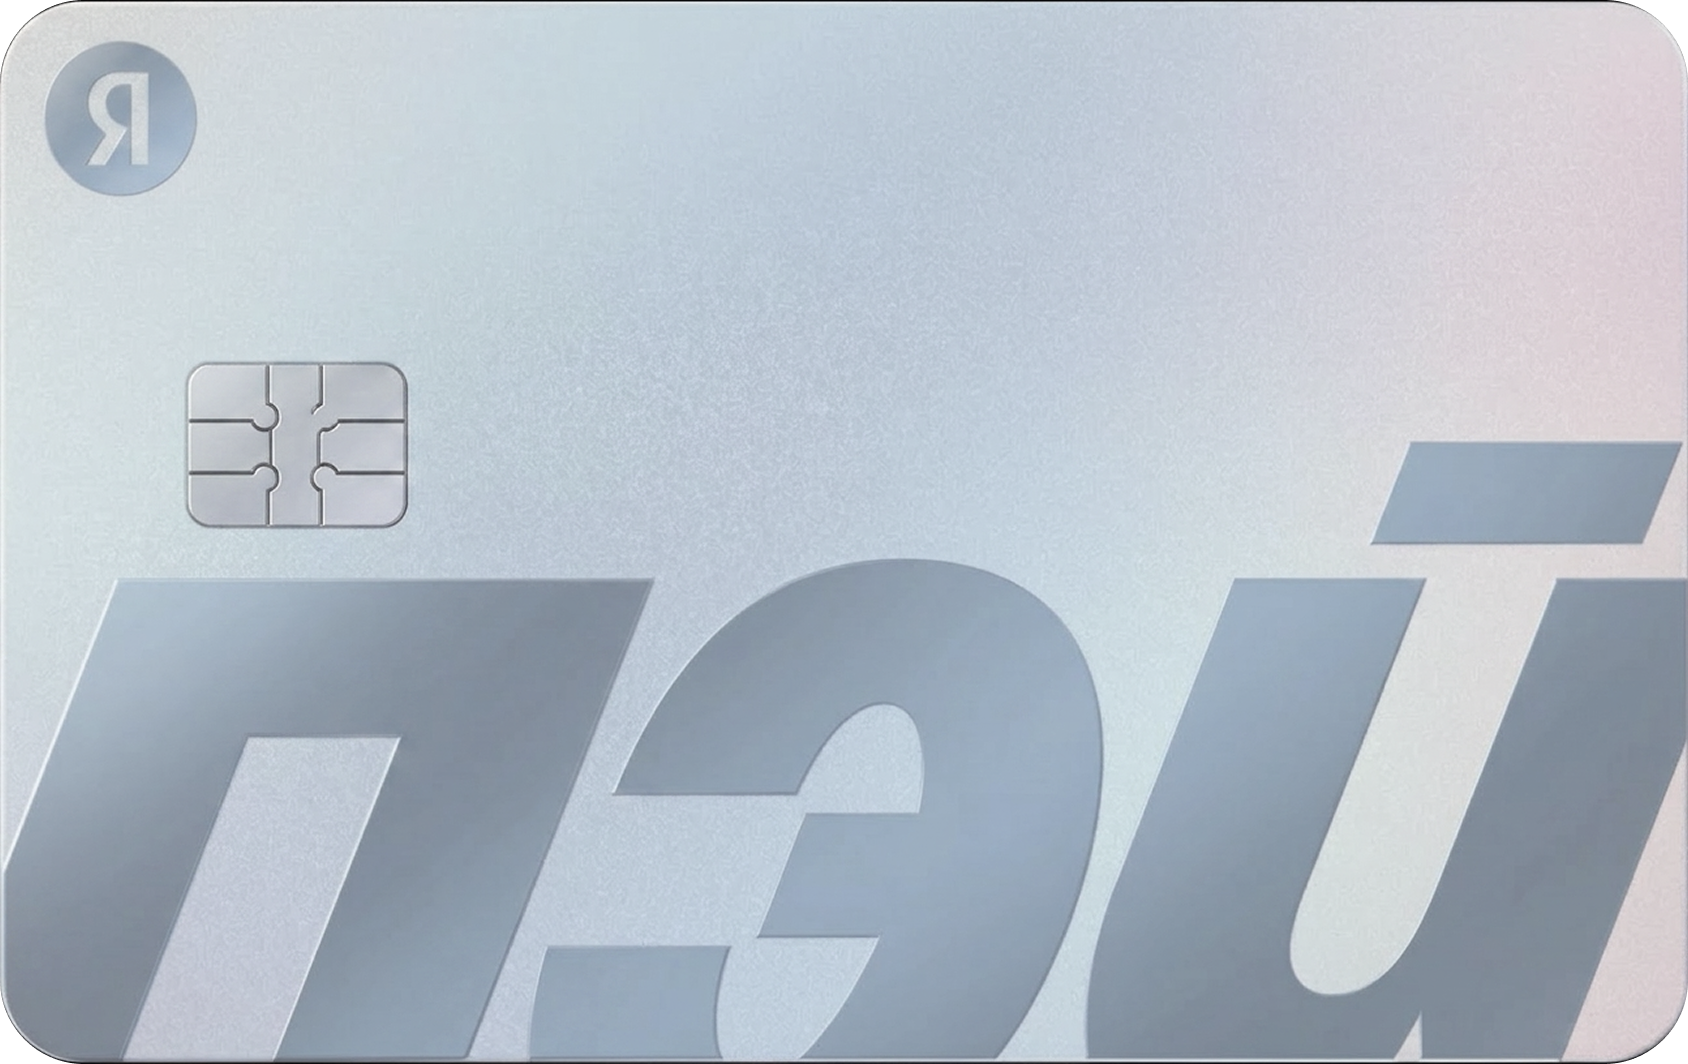
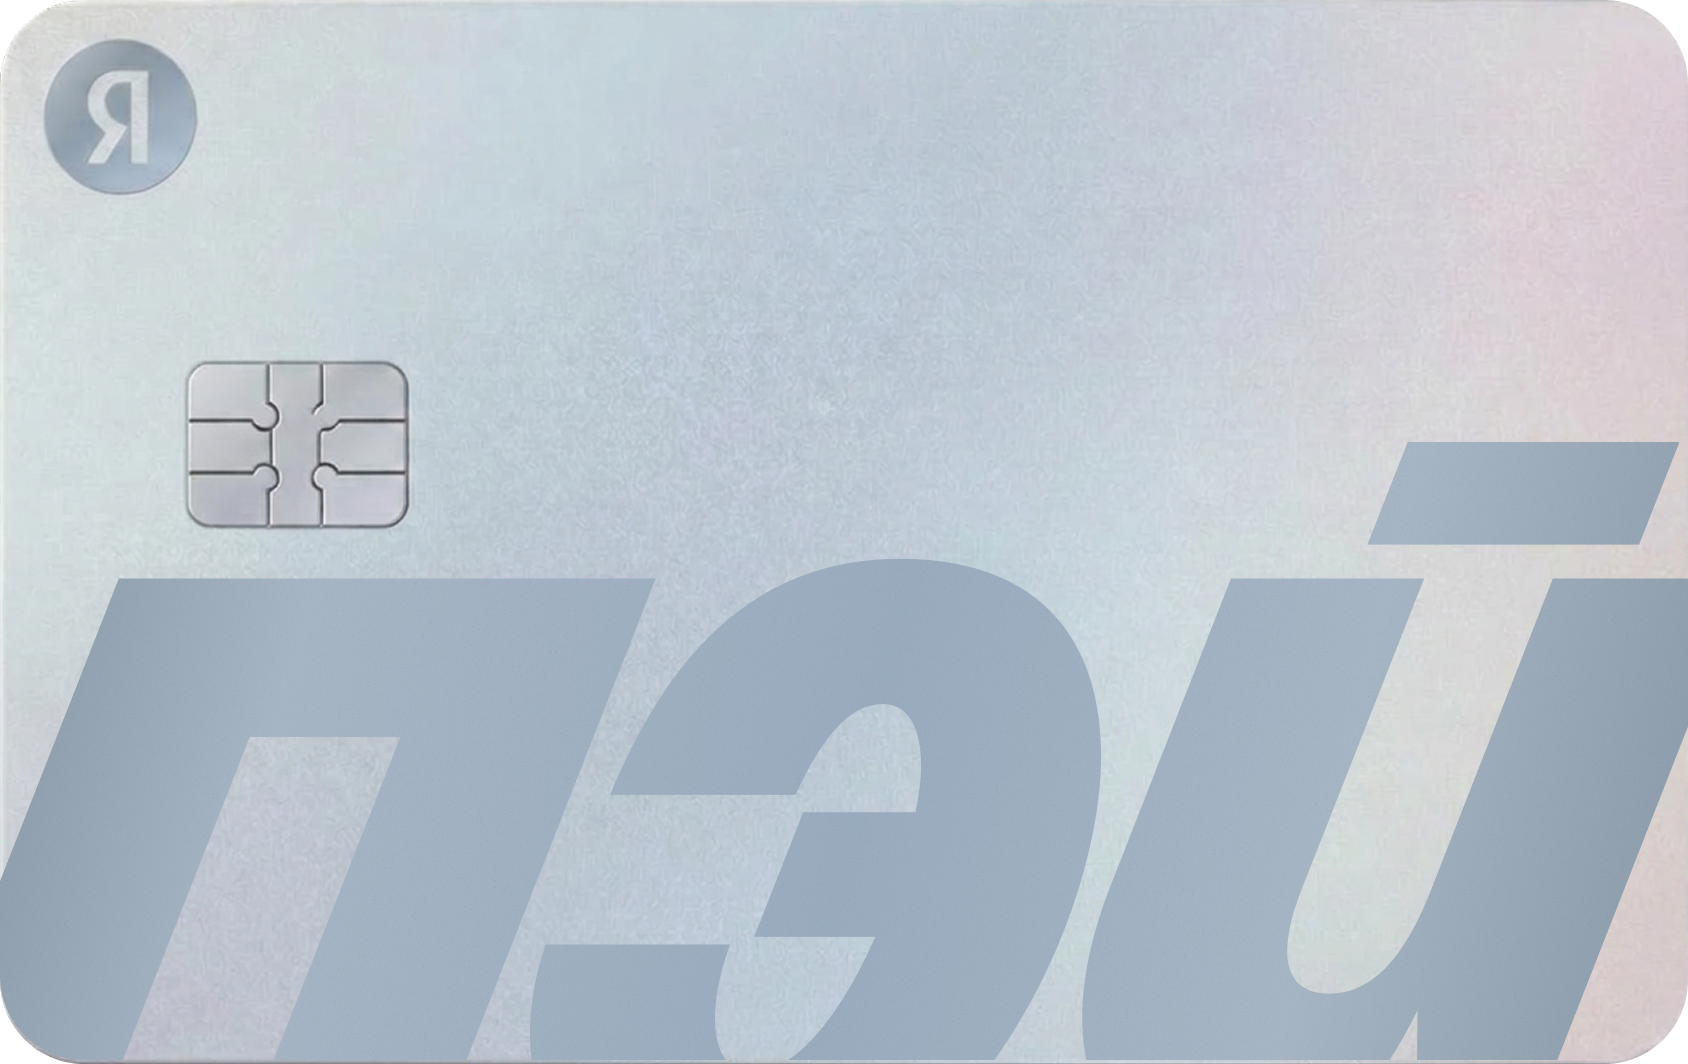
Add files via upload

diff --git a/index.html b/index.html
@@ -492,12 +492,13 @@
         // ============================================
 
         // Card skins configuration
+        // cornerRadius — скругление лицевой/задней плоскости и рёбер (подложки между ними)
         const skins = [
-            { front: 'images/card_front.png', back: 'images/card_back.png', edge: [0.95, 0.45, 0.65] },
-            { front: 'images/card_front_2.png', back: 'images/card_back_2.png', edge: [0.5, 0.8, 0.75] },
-            { front: 'images/Pay front.png', back: 'images/Pay back silver.png', mask: 'images/Pay mask.png', edge: [0.85, 0.85, 0.85], holographic: true },
-            { front: 'images/Pay front red.png', back: 'images/Pay back red.png', mask: 'images/Pay mask.png', edge: [0.85, 0.85, 0.85], holographic: true },
-            { front: 'images/Pay front black.png', back: 'images/Pay back black.png', mask: 'images/Pay mask.png', edge: [0.15, 0.15, 0.17], holographic: true }
+            { front: 'images/card_front.png', back: 'images/card_back.png', edge: [0.95, 0.45, 0.65], cornerRadius: 0.10 },
+            { front: 'images/card_front_2.png', back: 'images/card_back_2.png', edge: [0.5, 0.8, 0.75], cornerRadius: 0.10 },
+            { front: 'images/Pay front.png', back: 'images/Pay back silver.png', mask: 'images/Pay mask.png', edge: [0.85, 0.85, 0.85], holographic: true, cornerRadius: 0.16 },
+            { front: 'images/Pay front red.png', back: 'images/Pay back red.png', mask: 'images/Pay mask.png', edge: [0.85, 0.85, 0.85], holographic: true, cornerRadius: 0.16 },
+            { front: 'images/Pay front black.png', back: 'images/Pay back black.png', mask: 'images/Pay mask.png', edge: [0.15, 0.15, 0.17], holographic: true, cornerRadius: 0.16 }
         ];
 
         let currentSkin = 0;
@@ -984,7 +985,7 @@
             mat4.identity(viewMatrix);
             mat4.translate(viewMatrix, viewMatrix, [0, 0, -4.2]);
             
-            createCard();
+            updateCardGeometry(currentSkin);
 
             // Load textures
             const skin = skins[currentSkin];
@@ -996,8 +997,9 @@
             animate();
         }
 
-        function createCard() {
-            const cardWidth = 3.2, cardHeight = 2.02, cardDepth = 0.04, cornerRadius = 0.10;
+        function updateCardGeometry(skinIndex) {
+            const cornerRadius = skins[skinIndex].cornerRadius ?? 0.10;
+            const cardWidth = 3.2, cardHeight = 2.02, cardDepth = 0.04;
             
             // Front plane (rounded)
             const frontGeo = createPlaneGeometry(cardWidth, cardHeight, cornerRadius);
@@ -1015,8 +1017,8 @@
             const backIdxBuffer = createBuffer(backGeo.indices, gl.ELEMENT_ARRAY_BUFFER);
             backVAO = { pos: backPosBuffer, uv: backUVBuffer, norm: backNormBuffer, idx: backIdxBuffer, count: backGeo.indices.length, z: -cardDepth/2 - 0.005 };
             
-            // Edge
-            const edgeGeo = createRoundedBoxGeometry(cardWidth, cardHeight, cardDepth, 0.10);
+            // Edge (подложка между передней и задней стороной)
+            const edgeGeo = createRoundedBoxGeometry(cardWidth, cardHeight, cardDepth, cornerRadius);
             const edgePosBuffer = createBuffer(edgeGeo.positions);
             const edgeNormBuffer = createBuffer(edgeGeo.normals);
             const edgeIdxBuffer = createBuffer(edgeGeo.indices, gl.ELEMENT_ARRAY_BUFFER);
@@ -1579,6 +1581,7 @@
             document.getElementById('theme-color').setAttribute('content', themeColors[index]);
             if (changed) {
                 updateTextures();
+                updateCardGeometry(index);
                 if (navigator.vibrate) navigator.vibrate(5);
                 shakeCard(dir);
             }
